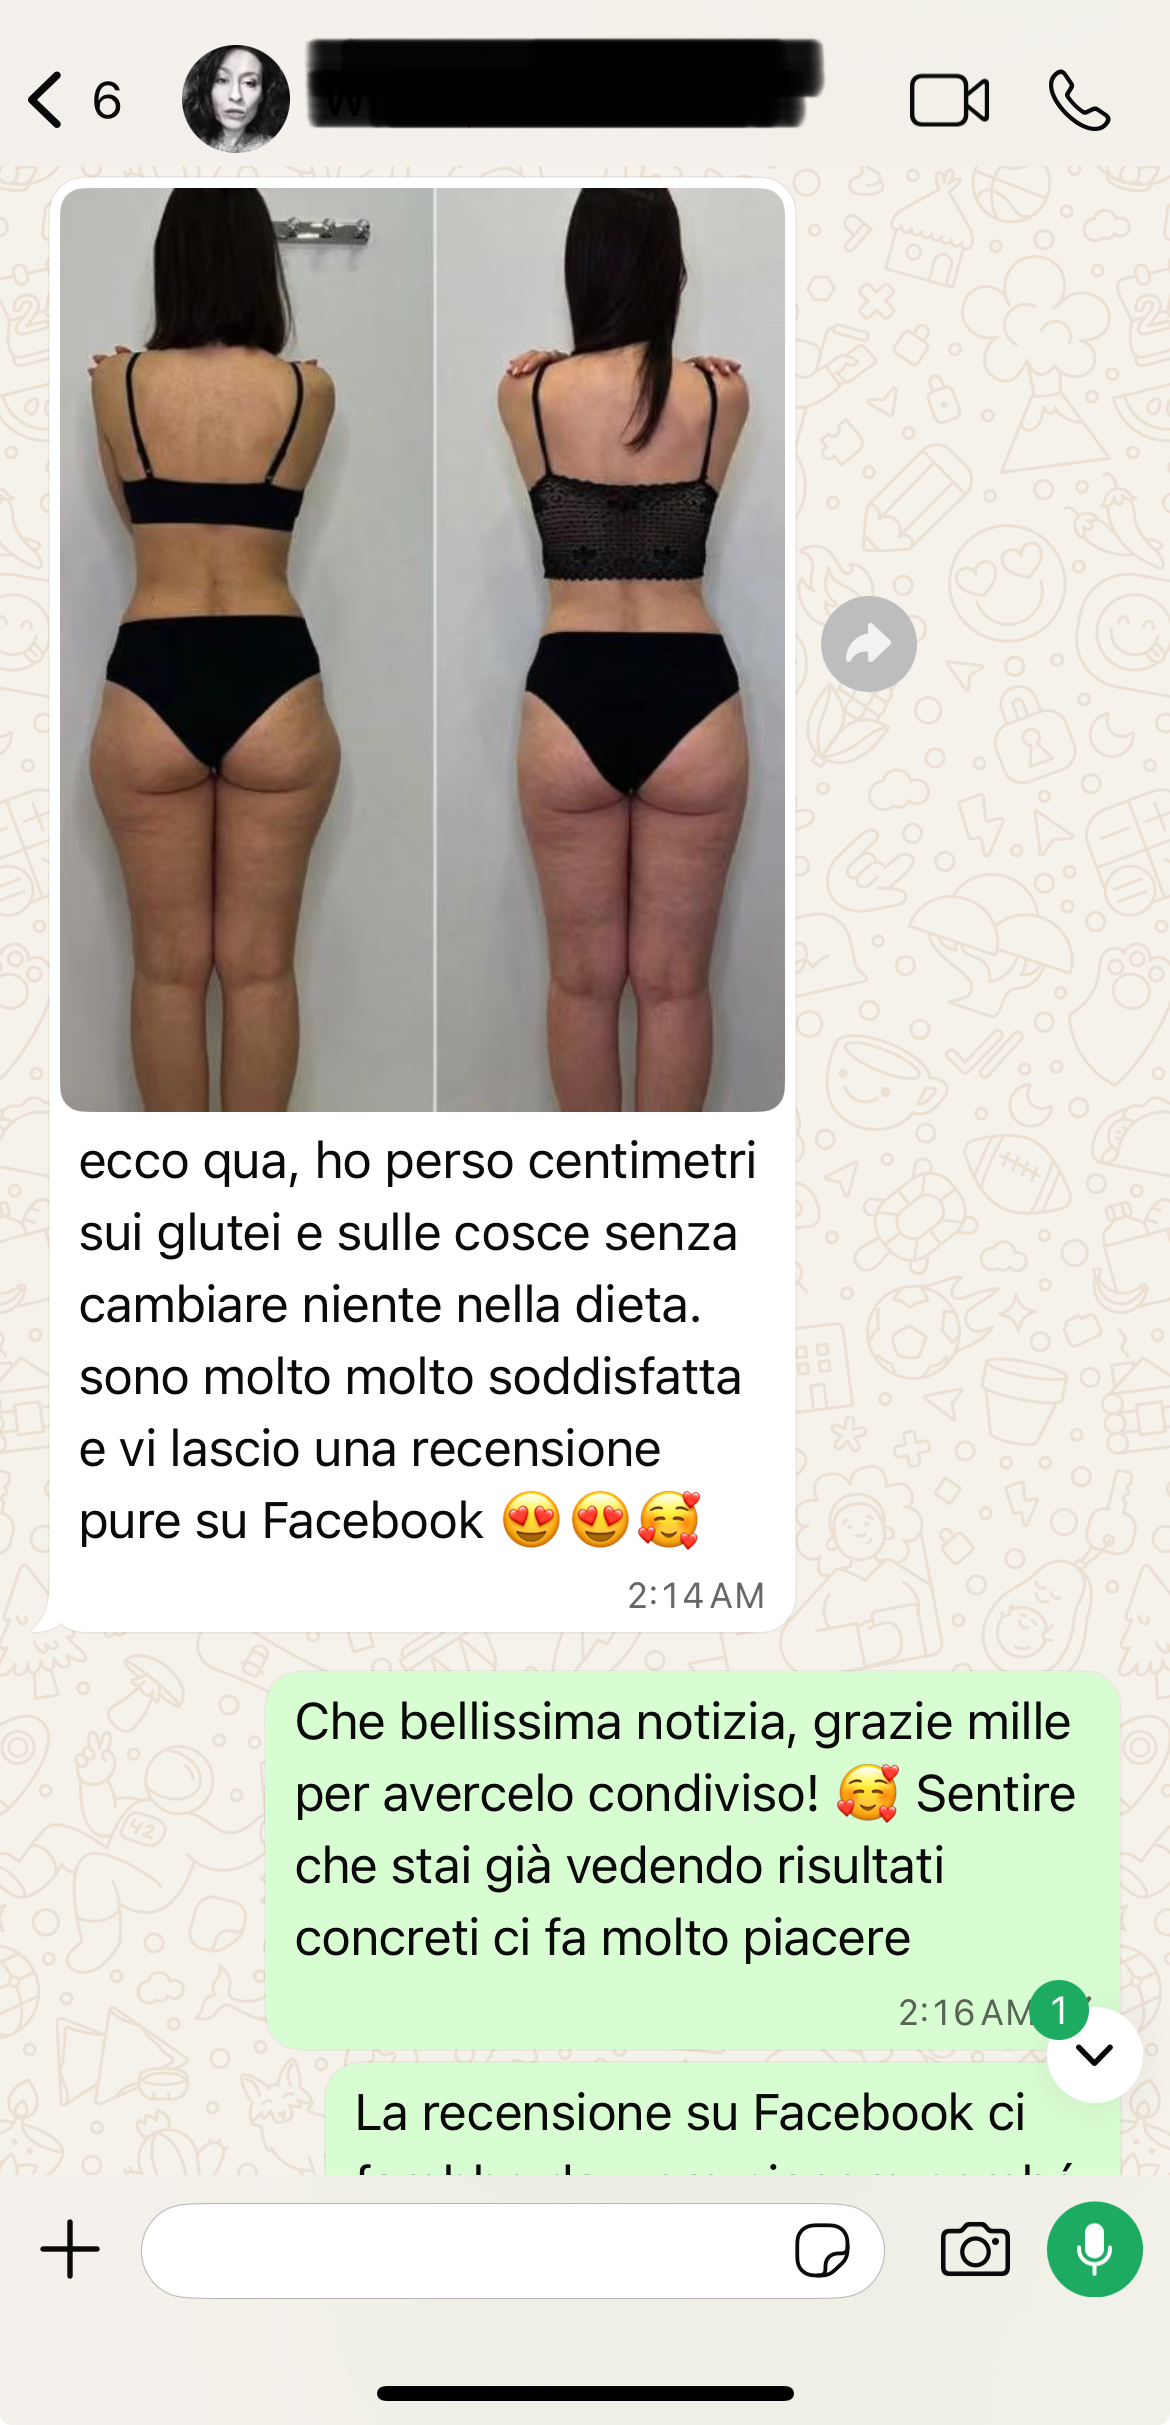
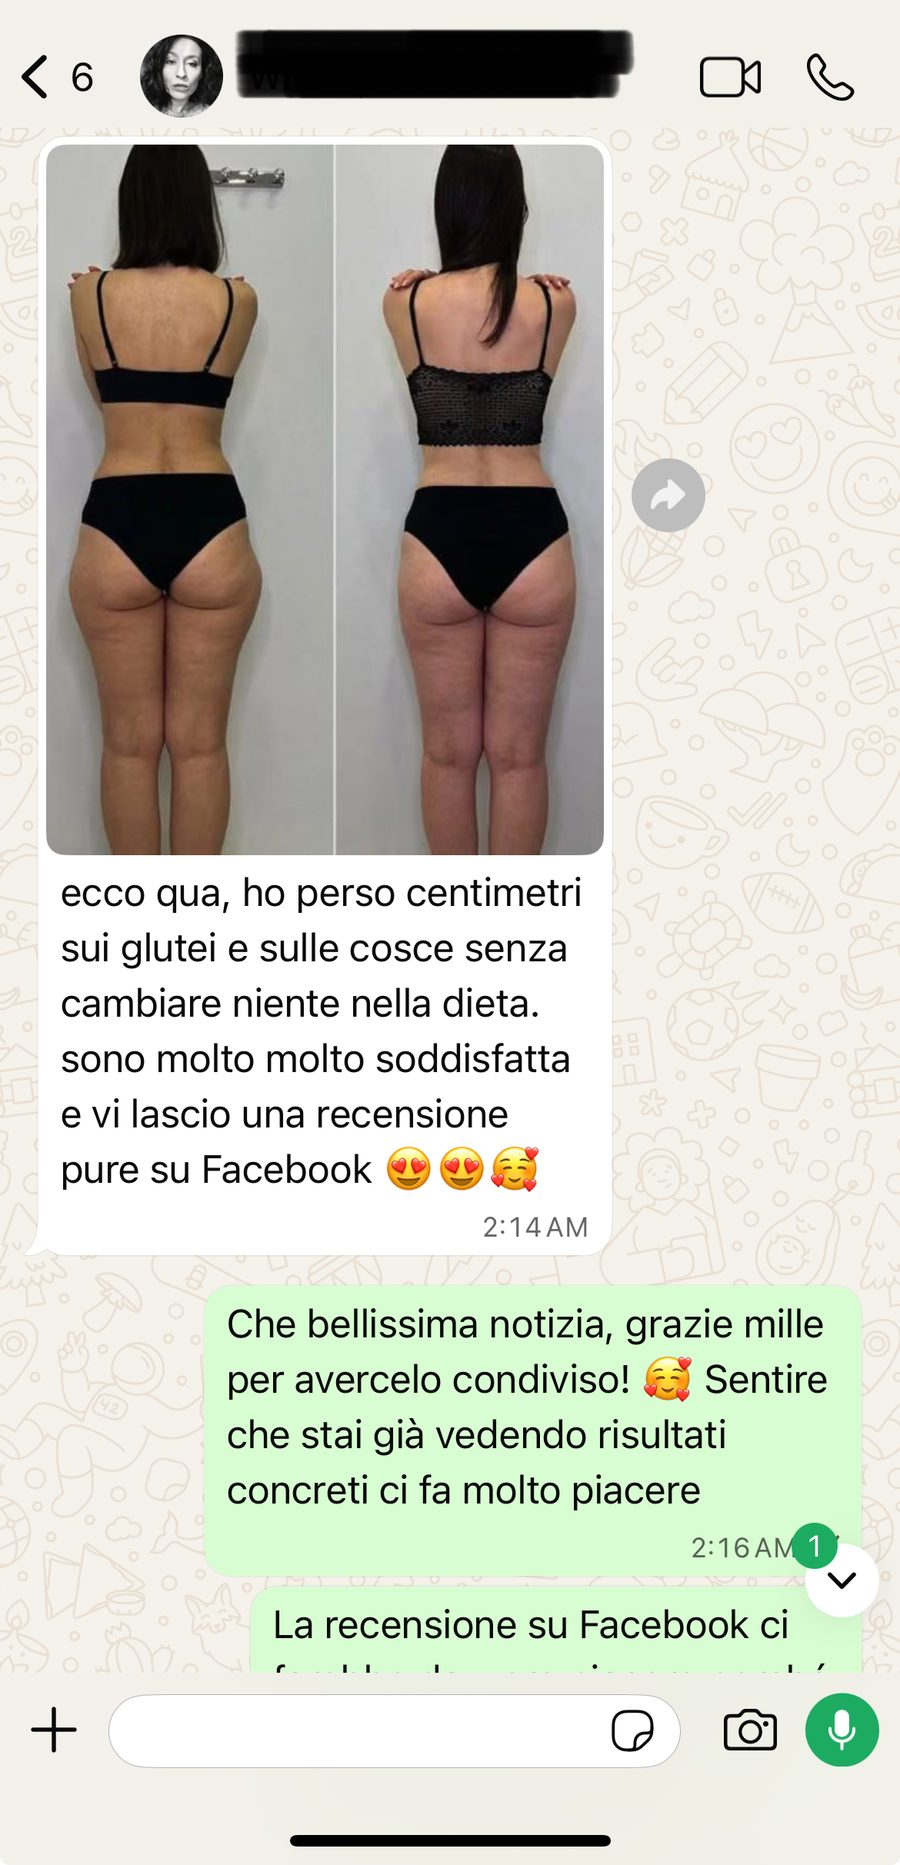
Perf + pink cleanup: compress images, fix placeholder, remove fuchsia
- Replace brownish BLUR placeholder with #DCEAF2 light-blue PNG
- Remove bg-fuchsia-50 from homepage (replaced with brand #EEF6FB)
- Compress review-wa-2/3 from 1.4/1.5MB → 185/196KB (86% smaller)
- Compress review-wa-1 from 447KB → 204KB
- Convert review-instagram-elena.png 917KB → jpg 122KB
- Convert routine-3passi.png 1.1MB → jpg 120KB
- Convert massager-features.png 930KB → jpg 106KB
- Update .png → .jpg references in product page

Claude-Session: https://claude.ai/code/session_013oGH2oMgQfNopEqApifo5u

Changed region(s): [[0.7156, 0.7153, 0.7778, 0.7464]]

diff --git a/app/prodotti/massaggio-anticellulite-4in1/page.tsx b/app/prodotti/massaggio-anticellulite-4in1/page.tsx
@@ -192,7 +192,7 @@ export default function ProductPage() {
        { src: '/images/review-wa-1.jpg', alt: 'Risultati cliente BellaCura 1' },
        { src: '/images/review-wa-2.jpg', alt: 'Risultati cliente BellaCura 2' },
        { src: '/images/review-wa-3.jpg', alt: 'Risultati cliente BellaCura 3' },
-       { src: '/images/review-instagram-elena.png', alt: 'Recensione Instagram Elena' },
+       { src: '/images/review-instagram-elena.jpg', alt: 'Recensione Instagram Elena' },
      ].map(({ src, alt }) => (
        <div key={src} className="flex-none w-[72vw] md:w-auto snap-start group">
          <div className="relative rounded-2xl overflow-hidden shadow-lg border border-gray-100 transition-transform duration-200 group-hover:scale-[1.02] group-hover:shadow-xl" style={{ aspectRatio: '9/16' }}>
@@ -354,7 +354,7 @@ export default function ProductPage() {
  {/* IMAGE 1 — Routine */}
  <section className="bg-white">
  <img
-   src="/images/routine-3passi.png"
+   src="/images/routine-3passi.jpg"
    alt="La tua routine BellaCura in 3 passi"
    className="w-full block"
    loading="lazy"
@@ -371,7 +371,7 @@ export default function ProductPage() {
  {/* IMAGE 2 — Massager features */}
  <section className="bg-white">
  <img
-   src="/images/massager-features.png"
+   src="/images/massager-features.jpg"
    alt="Massaggiatore 4-in-1 BellaCura — funzionalità"
    className="w-full block"
    loading="lazy"

diff --git a/components/product/ProductImageGallery.tsx b/components/product/ProductImageGallery.tsx
@@ -20,7 +20,7 @@ const media: MediaItem[] = [
   { type: 'video', src: '/video/promo.mp4',                   alt: 'BellaCura in azione' },
 ]
 
[2 lines of base64/hex data omitted]
 
 export default function ProductImageGallery() {
   const [active, setActive] = useState(0)

diff --git a/app/page.tsx b/app/page.tsx
@@ -232,7 +232,7 @@ export default function HomePage() {
  <div className="grid grid-cols-2 gap-4">
  <div className="aspect-square rounded-2xl bg-[#DCEAF2] flex items-center justify-center text-6xl shadow-sm"></div>
  <div className="aspect-square rounded-2xl bg-[#DCEAF2] flex items-center justify-center text-6xl shadow-sm"></div>
- <div className="aspect-square rounded-2xl bg-fuchsia-50 flex items-center justify-center text-6xl shadow-sm"></div>
+ <div className="aspect-square rounded-2xl bg-[#EEF6FB] flex items-center justify-center text-6xl shadow-sm"></div>
  <div className="aspect-square rounded-2xl bg-[#DCEAF2] flex items-center justify-center text-6xl shadow-sm"></div>
  </div>
 
